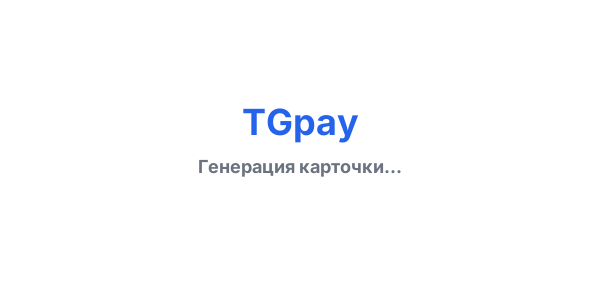
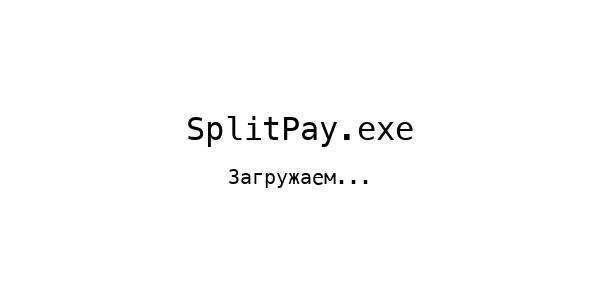
feat: ретро-дигитал placeholder из статичной PNG вместо render_placeholder()

Changed region(s): [[0.3, 0.36, 0.69, 0.48], [0.33, 0.51, 0.66, 0.63]]

diff --git a/bot/services/card_renderer.py b/bot/services/card_renderer.py
@@ -238,40 +238,3 @@ def render_card(
     img.save(buf, format="PNG")
     buf.seek(0)
     return buf
-
-
-def render_placeholder() -> BytesIO:
-    """Генерация placeholder-карточки для inline результата."""
-    height = 300
-    img = Image.new("RGBA", (CARD_WIDTH, height), BG_COLOR)
-    draw = ImageDraw.Draw(img)
-
-    font_brand = _load_font(36)
-    font_sub = _load_font(18)
-
-    # Бренд
-    text = "SplitPay"
-    bbox = draw.textbbox((0, 0), text, font=font_brand)
-    text_w = bbox[2] - bbox[0]
-    draw.text(
-        ((CARD_WIDTH - text_w) / 2, 100),
-        text,
-        fill=ACCENT_COLOR,
-        font=font_brand,
-    )
-
-    # Подпись
-    sub = "Генерация карточки..."
-    bbox = draw.textbbox((0, 0), sub, font=font_sub)
-    text_w = bbox[2] - bbox[0]
-    draw.text(
-        ((CARD_WIDTH - text_w) / 2, 155),
-        sub,
-        fill=TEXT_SECONDARY,
-        font=font_sub,
-    )
-
-    buf = BytesIO()
-    img.save(buf, format="PNG")
-    buf.seek(0)
-    return buf

diff --git a/bot/routers/inline.py b/bot/routers/inline.py
@@ -16,12 +16,15 @@ from aiogram.types import (
 )
 from sqlalchemy.ext.asyncio import AsyncSession
 
+from pathlib import Path
+
 from bot.config import get_settings
 from bot.db.repositories import UserRepo
 from bot.keyboards import expense_keyboard
-from bot.services.card_renderer import render_placeholder
 from bot.services.expense_service import ExpenseService
 from bot.upload import upload_photo
+
+PLACEHOLDER_PATH = Path(__file__).parent.parent.parent / "assets" / "placeholder.png"
 
 logger = logging.getLogger(__name__)
 
@@ -77,8 +80,7 @@ async def _get_placeholder_file_id(bot: Bot, chat_id: int) -> str:
     if _placeholder_file_id is not None:
         return _placeholder_file_id
 
-    placeholder = render_placeholder()
-    file_id = await upload_photo(bot, placeholder.read(), chat_id)
+    file_id = await upload_photo(bot, PLACEHOLDER_PATH.read_bytes(), chat_id)
     _placeholder_file_id = file_id
     return file_id
 

diff --git a/tests/test_card_renderer.py b/tests/test_card_renderer.py
@@ -2,19 +2,7 @@ from io import BytesIO
 
 from PIL import Image
 
-from bot.services.card_renderer import Participant, render_card, render_placeholder
-
-
-def test_render_placeholder_returns_bytes():
-    result = render_placeholder()
-    assert isinstance(result, BytesIO)
-
-
-def test_render_placeholder_is_valid_image():
-    result = render_placeholder()
-    img = Image.open(result)
-    assert img.size[0] > 0
-    assert img.size[1] > 0
+from bot.services.card_renderer import Participant, render_card
 
 
 def test_render_card_no_participants():
